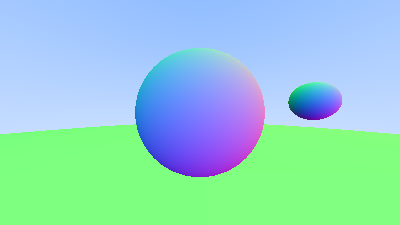
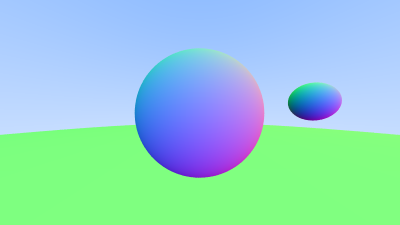
Antialliasing

diff --git a/src/main.rs b/src/main.rs
@@ -7,11 +7,18 @@ const ASPECT_RATIO : f64 = 16.0 / 9.0;
 const WIDTH : u32 = 400;
 const HEIGHT : u32 = (WIDTH as f64 / ASPECT_RATIO) as u32;
 const DEBUG : bool = false;
+const SAMPLES_PER_PIXEL : u32 = 100;
 const PI : f64 = std::f64::consts::PI;
 const INFINITY : f64 = f64::INFINITY;
 
 fn deg2rad(degrees : f64) -> f64{
     degrees * PI / 180.0
+}
+
+fn clamp(x : f64, min: f64, max: f64) -> f64{
+    if x > max { max }
+    else if x < min { min }
+    else { x }
 }
 
 fn rand() ->f64{
@@ -20,6 +27,15 @@ fn rand() ->f64{
 
 fn rand_in_range(min : f64, max : f64) -> f64{
     min + (max-min) * rand()
+}
+
+fn color_rgb(pixel_color : &Vec3, samples_per_pixel : u32) -> [u8; 3]{
+
+    let scale = 1.0 / samples_per_pixel as f64;
+    let r = (256.0 * clamp(pixel_color.x * scale, 0.0, 0.999)) as u8;
+    let g = (256.0 * clamp(pixel_color.y * scale, 0.0, 0.999)) as u8;
+    let b = (256.0 * clamp(pixel_color.z * scale, 0.0, 0.999)) as u8;
+    [r, g, b]
 }
 
 #[derive(Debug, Copy, Clone, PartialEq)]
@@ -213,6 +229,47 @@ trait Hittable{
     fn hit(&self, ray : &Ray, t_min : f64, t_max : f64) -> Option<HitRecord>;
 }
 
+struct Camera{
+    aspect_ratio : f64,
+    viewport_height : f64,
+    viewport_width : f64,
+    focal_length : f64,
+    origin : Vec3,
+    lower_left_corner : Vec3,
+    horizontal : Vec3,
+    vertical : Vec3
+}
+
+impl Camera {
+    fn default() -> Camera{
+        Camera { aspect_ratio: ASPECT_RATIO, 
+            viewport_height: 2.0, 
+            viewport_width: ASPECT_RATIO * 2.0, 
+            focal_length: 1.0, 
+            origin: Vec3::zero(), 
+            lower_left_corner: Vec3::zero() - Vec3::new(ASPECT_RATIO * 2.0, 0.0, 0.0)/2.0 - Vec3::new(0.0, 2.0, 0.0)/2.0 - Vec3::new(0.0, 0.0, 1.0), 
+            horizontal: Vec3::new(ASPECT_RATIO * 2.0, 0.0, 0.0), 
+            vertical: Vec3::new(0.0, 2.0, 0.0) }
+    }
+
+    fn new(aspect_ratio : f64, viewport_height : f64, focal_length : f64, origin : Vec3) -> Camera{
+        let viewport_width = aspect_ratio * viewport_height;
+        let horizontal = Vec3::new(viewport_width, 0.0, 0.0);
+        let vertical = Vec3::new(0.0, viewport_height, 0.0);
+        let lower_left_corner = origin - horizontal / 2.0 - vertical / 2.0 - Vec3::new(0.0, 0.0, focal_length);
+
+        Camera { aspect_ratio: aspect_ratio, viewport_height: viewport_height, 
+            viewport_width: viewport_width, focal_length: focal_length, 
+            origin: origin, lower_left_corner: lower_left_corner, 
+            horizontal: horizontal, vertical: vertical }
+    }
+
+    fn get_ray(&self, u: f64, v: f64) -> Ray{
+        Ray::new(self.origin, self.lower_left_corner + u * self.horizontal + v * self.vertical - self.origin)
+    }
+}
+
+
 #[derive(Debug, Copy, Clone, PartialEq)]
 struct Sphere {
     center: Vec3,
@@ -287,28 +344,6 @@ fn ray_color(r: &Ray, list : &Vec<Rc<dyn Hittable>>) -> Vec3{
 }
 
 fn main() {
-
-    // Vec3 test
-    /*
-    let v0 = Vec3::zero();
-    let mut  v1 =  2.0 * Vec3::new(5.5, -12.455, 2.0);
-    let v2 = Vec3::new(10.1, 8.0, -5.66);
-    v1 *= 2.0;
-    v1 /= 4.0;
-    println!("{:?}", v0);
-    println!("{:?}", v1);
-    println!("{:?}", v2);
-    println!("{:?}", v1 - v2);
-    println!("{:?}", v1.unit_vector());
-    v1.normalize();
-    println!("{:?}", v1);
-    println!("{:?}", v1.squared_length());
-    println!("{:?}", v1.length());
-    */
-
-    println!("{}", rand());
-    println!("{}", rand_in_range(60.0, 70.0));
-
     // Construct a new RGB ImageBuffer with the specified width and height.
     let mut image: RgbImage = ImageBuffer::new(WIDTH, HEIGHT);
 
@@ -320,34 +355,26 @@ fn main() {
     
 
     // Camera
-    let viewport_height : f64 = 2.0;
-    let viewport_width : f64 = ASPECT_RATIO * viewport_height;
-    let focal_length : f64 = 1.0;
-
-    let origin = Vec3::new(0.0, 0.0, 0.0);
-    let horizontal = Vec3::new(viewport_width, 0.0, 0.0);
-    let vertical = Vec3::new(0.0, viewport_height, 0.0);
-    let lower_left_corner = origin - horizontal/2.0 - vertical/2.0 - Vec3::new(0.0, 0.0, focal_length);
+    let camera = Camera::default();
     
     // Iterate over all pixels in the image.
     for (x, y, pixel) in image.enumerate_pixels_mut() {
         let y = (HEIGHT - 1) - y; 
         
         // Do something with pixel.
-        let u = (x as f64) / (WIDTH as f64 - 1.0);
-        let v = (y as f64) / (HEIGHT as f64 - 1.0);
-        let r = Ray::new(origin, lower_left_corner + u*horizontal + v*vertical - origin);
-        let pixel_color = ray_color(&r, &world);
+        let mut pixel_color = Vec3::zero();
+        for _i in 0..SAMPLES_PER_PIXEL {
+            let u = (x as f64 + rand()) / (WIDTH as f64 - 1.0);
+            let v = (y as f64 + rand()) / (HEIGHT as f64 - 1.0);
+            pixel_color += ray_color(&camera.get_ray(u, v), &world);
+        }
 
-        let r = (255.9  * pixel_color.x) as u8;
-        let g = (255.9  * pixel_color.y) as u8;
-        let b = (255.9  * pixel_color.z) as u8;
-
-        *pixel = image::Rgb([r, g, b]);
+        *pixel = image::Rgb(color_rgb(&pixel_color, SAMPLES_PER_PIXEL));
 
         if DEBUG { println!("{},{}", x, y) };
     }
     
+
     // write it out to a file
     image.save("output.png").unwrap();
 }
